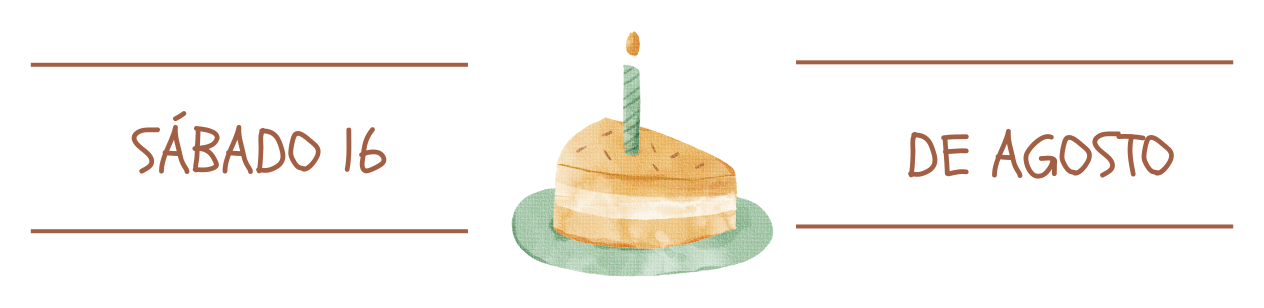
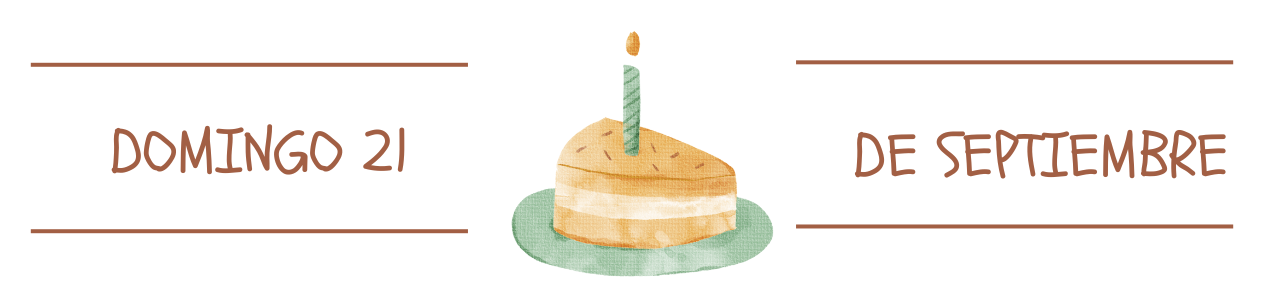
AC
AC

Changed region(s): [[0.6788, 0.4091, 0.9873, 0.5844], [0.0617, 0.4091, 0.3394, 0.5844], [0.1234, 0.3506, 0.1543, 0.3799]]

diff --git a/index.html b/index.html
@@ -82,7 +82,7 @@
           </div>
           <div>
             <h2 data-aos="fade-up" >Julián</h2>
-            <H3 data-aos="fade-up">16.08.25</H3>
+            <H3 data-aos="fade-up">21.09.25</H3>
           </div>
           <div>
             <img class="espejo" src="./figuras/icon-1.png" alt="">
